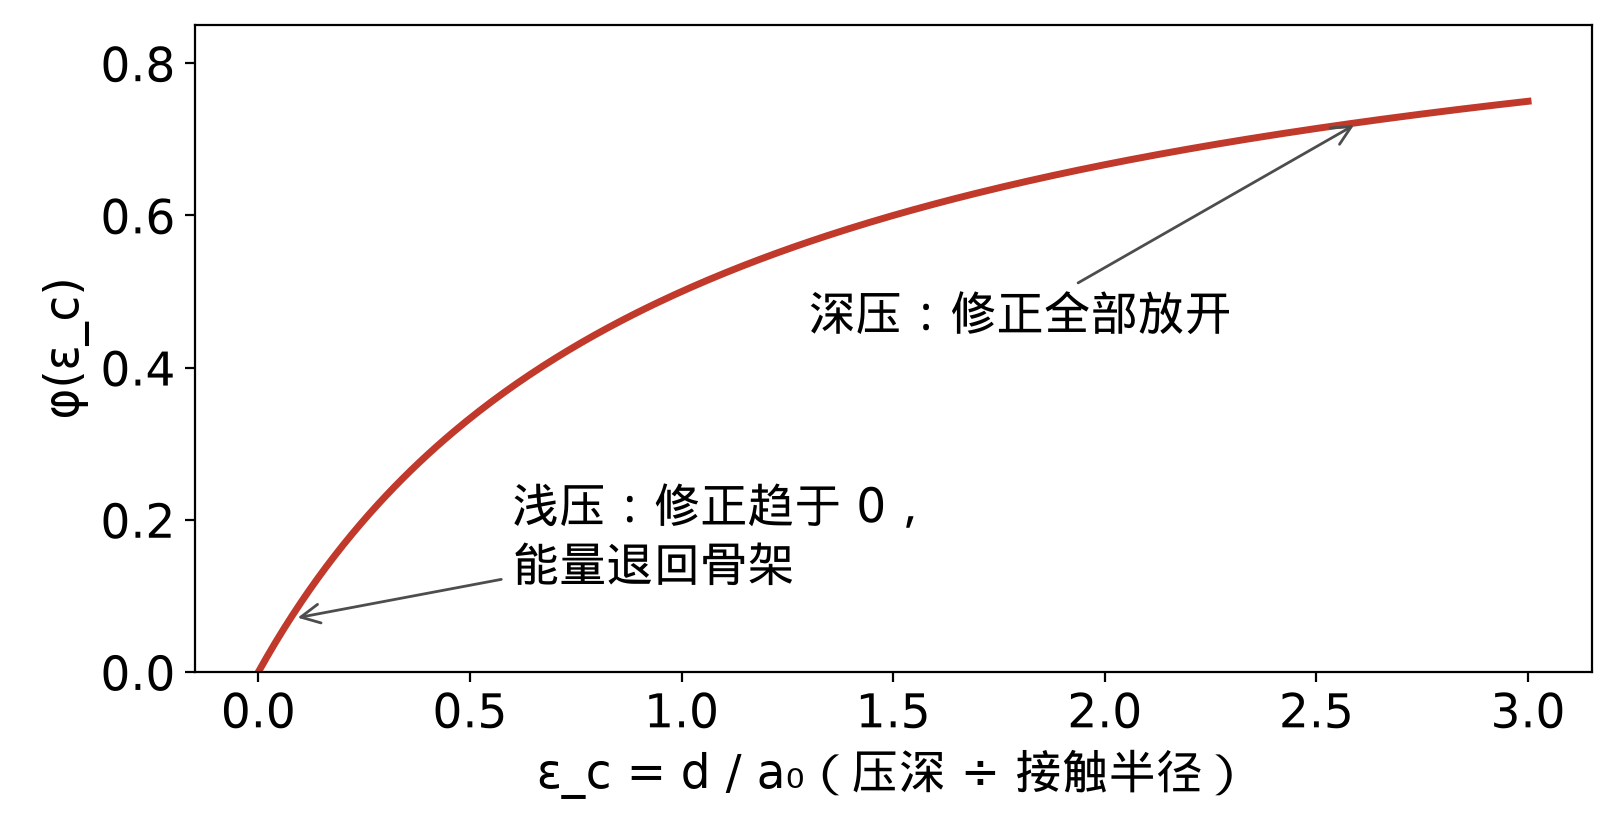
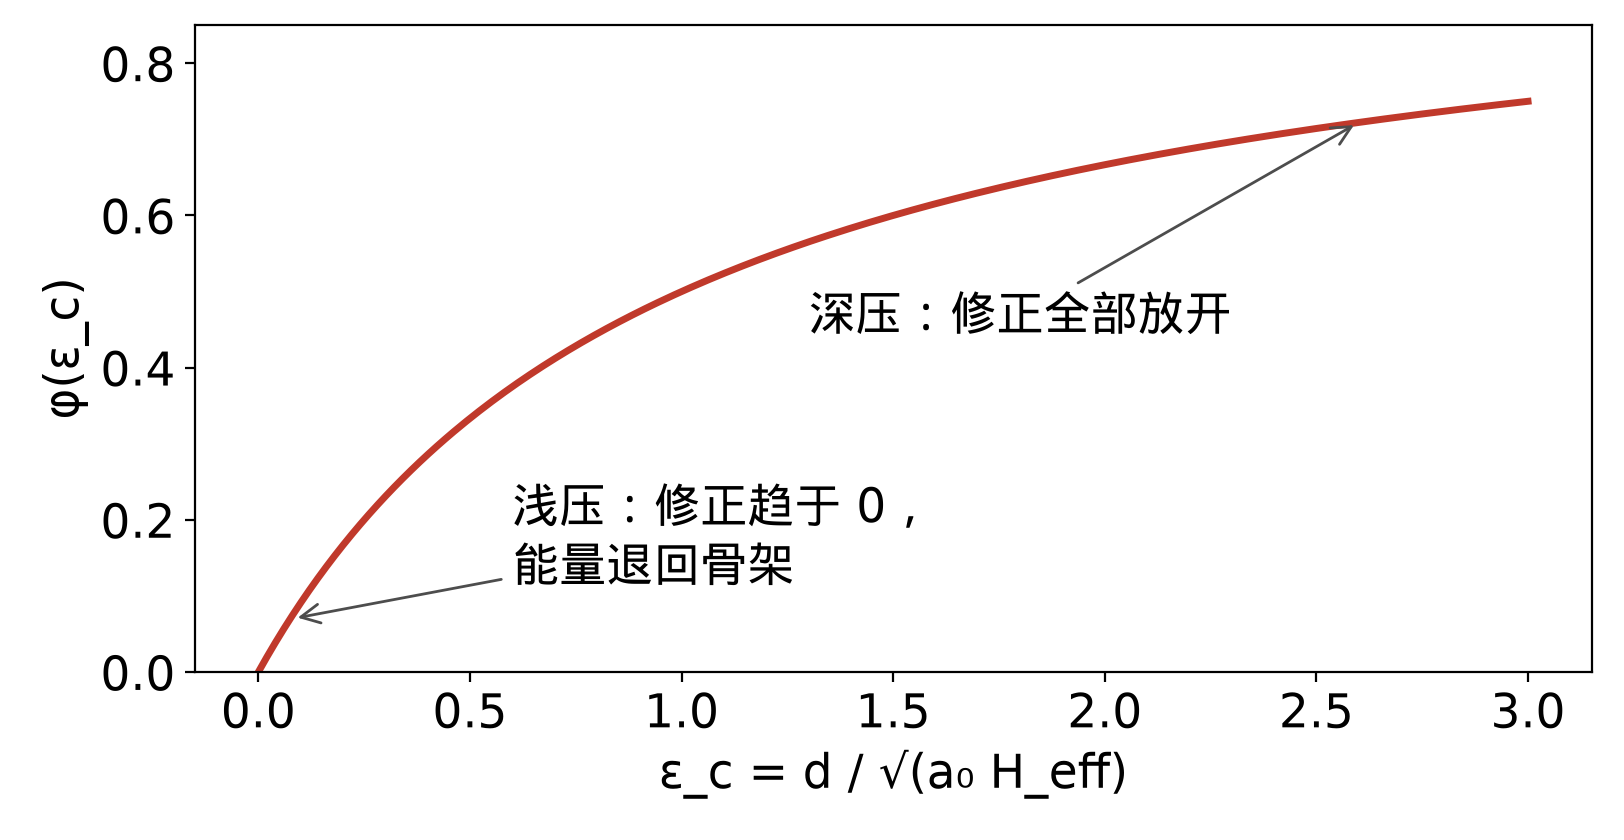
Publish week7_8 from meeting-draft 41cc2e9 (network description fix, readable dataset gallery)

Changed region(s): [[0.3387, 0.8976, 0.7697, 0.9595]]

diff --git a/week7_8.html b/week7_8.html
@@ -244,7 +244,7 @@ html.annot-on #annot-capture { display: block; }
   html.annot-fixed pre, html.annot-fixed mjx-container[display="true"] { overflow: visible; }
 }
 </style>
-<script>window.NIPC_PAGE = "b8c38d013606";</script>
+<script>window.NIPC_PAGE = "6eae0d37fffb";</script>
 <script>window.MathJax = {tex: {inlineMath: [["\\(", "\\)"]], displayMath: [["\\[", "\\]"]]}, svg: {fontCache: "global"}};</script>
 <script src="https://cdn.jsdelivr.net/npm/mathjax@3.2.2/es5/tex-svg.js" async></script>
 <a class="skip" href="#content">跳转到正文</a><div id="progress" aria-hidden="true"></div>
@@ -367,16 +367,16 @@ html.annot-on #annot-capture { display: block; }
 <p>第二类是偏大：兔压龙「龙硬 10 倍」压到 0.408 兔高时 \(S_{80}\) 是 5.56 倍，比只用第一项的 3.01 倍还大。这一格的重叠区在龙身上分成两片、两片法向夹角约 113°，兔子被两侧夹住。骨架按未变形形状算重叠，没有考虑兔子被挤向两侧，所以第一项就偏大；80 个 mode 是在单个物体上算的，在两片同时受压时给出负的柔度贡献，把能量进一步推高。</p>
 <p><strong>软硬对调：浅压时标准答案分得开，骨架方向对但幅度不足。</strong> 同样 0.126 兔高，兔压龙「龙硬 10 倍」的 GT 是「兔硬 10 倍」的 1.14 倍，骨架是 1.04 倍，只用第一项是 1.17 倍。两组泊松比对调时 GT 只差 3.5%，骨架差 1.7%，方向一致；但在 0.333 兔高 GT 是 0.97 倍、骨架是 1.01 倍，方向反了。这说明谁软谁硬的差别有一部分来自非线性，骨架（线弹性）补不全，需要第二部分的网络。</p></section>
 <section id="w3"><h2>数据集：9 对复杂网格、220 个场景</h2>
-<figure style="margin:12px 0"><img src="assets/images/dataset_gallery_9pairs.png" width="1950" height="1820" style="width:450px;max-width:100%;height:auto" alt="数据集里的 9 对复杂网格（兔、龙、鸭的不同摆放与组合），每格标出这一对的场景数和四面体数（42.5 万–69.6 万）。蓝色是上面的物体，橙色是下面的物体。" loading="lazy"><figcaption>数据集里的 9 对复杂网格（兔、龙、鸭的不同摆放与组合），每格标出这一对的场景数和四面体数（42.5 万–69.6 万）。蓝色是上面的物体，橙色是下面的物体。</figcaption></figure>
-<p><strong>每个场景是一组「两个物体的网格、材料、12 维状态」和它的标准答案。</strong> 标准答案按第 1 节的定义，用 GPU 上的 FEM+IPC 在 12 维 affine 锁下解到静止。复杂网格共 68 个场景，覆盖 9 对物体、压深 0.05–0.41 兔高、刚度比 1 和 10、泊松比 0.2–0.45 以及 Gent 材料；另有 152 个参数化场景（细长锥、斜置薄鳍等形状，压深以深压为主）补足形状覆盖。每个场景同时存下骨架 \(S_0\)、 \(S_{80}\) 和骨架在每片接触区解出的局部场（压强、重叠、法向），作为网络的输入来源。</p></section>
+<figure style="margin:12px 0"><img src="assets/images/w78_dataset_gallery.png" width="1624" height="1380" style="width:555px;max-width:100%;height:auto" alt="数据集里的 9 对复杂网格，由兔、龙、鸭三种网格按不同摆放两两组合，每个物体 42.5 万–69.6 万个四面体。蓝色是上面的物体，橙色是下面的物体。" loading="lazy"><figcaption>数据集里的 9 对复杂网格，由兔、龙、鸭三种网格按不同摆放两两组合，每个物体 42.5 万–69.6 万个四面体。蓝色是上面的物体，橙色是下面的物体。</figcaption></figure>
+<p><strong>每个场景是一组「两个物体的网格、材料、12 维状态」和它的标准答案。</strong> 标准答案按第 1 节的定义，用 GPU 上的 FEM+IPC 在 12 维 affine 锁下解到静止。复杂网格共 68 个场景，覆盖 9 对物体、多档压深、刚度比 1 和 10、泊松比 0.2–0.45 以及 Gent 材料；另有 152 个参数化场景（细长锥、斜置薄鳍等形状，压深以深压为主）补足形状覆盖。每个场景同时存下骨架 \(S_0\)、 \(S_{80}\) 和骨架在每片接触区解出的局部场（压强、重叠、法向），作为网络的输入来源。</p></section>
 <section id="w4"><h2>模型：骨架乘一个只在深压时打开的修正</h2>
 <p><strong>网络不直接输出能量，只输出对骨架的对数修正：</strong></p>
-<p>\[U_\theta=S_{80}\cdot\exp\!\big(\phi(\varepsilon_c)\,\bar g_\theta(f)\big),\qquad \phi(\varepsilon_c)=\frac{\varepsilon_c}{1+\varepsilon_c},\qquad \varepsilon_c=\frac{d}{a_0},\]</p>
-<p>其中 \(S_{80}\) 是完整骨架的能量； \(a_0=\sqrt{A_c/\pi}\) 是把接触面积 \(A_c\) 换成等面积圆的半径， \(\varepsilon_c\) 是压深与接触半径之比，衡量这次接触有多「深」； \(\phi\) 是包络； \(\bar g_\theta\) 是网络对输入特征 \(f\) 的输出。</p>
+<p>\[U_\theta=S_{80}\cdot\exp\!\big(\phi(\varepsilon_c)\,\bar g_\theta(f)\big),\qquad \phi(\varepsilon_c)=\frac{\varepsilon_c}{1+\varepsilon_c},\qquad \varepsilon_c=\frac{d}{\sqrt{a_0H_{\text{eff}}}},\]</p>
+<p>其中 \(S_{80}\) 是完整骨架的能量； \(a_0=\sqrt{A_c/\pi}\) 是把接触面积 \(A_c\) 换成等面积圆的半径； \(H_{\text{eff}}\) 是两个物体沿接触法向厚度的较小值； \(\varepsilon_c\) 是压深与接触尺度 \(\sqrt{a_0H_{\text{eff}}}\) 之比，量纲为一，衡量这次接触有多「深」（接触小、物体薄时同样的压深更深）； \(\phi\) 是包络； \(\bar g_\theta\) 是网络对输入特征 \(f\) 的输出。</p>
 <figure style="margin:12px 0"><img src="assets/images/w78_envelope.png" width="1624" height="840" style="width:555px;max-width:100%;height:auto" alt="包络 \(\phi(\varepsilon_c)=\varepsilon_c/(1+\varepsilon_c)\)：浅压时趋于 0，网络的修正被压掉，能量退回骨架；深压时趋于 1，修正全部放开。" loading="lazy"><figcaption>包络 \(\phi(\varepsilon_c)=\varepsilon_c/(1+\varepsilon_c)\)：浅压时趋于 0，网络的修正被压掉，能量退回骨架；深压时趋于 1，修正全部放开。</figcaption></figure>
 <p><strong>这样写有三个好处。</strong> 第一，浅压时 \(\phi\to0\) ， \(U_\theta\to S_{80}\) ，第 5–6 周已经验证过的浅压精度原样保留，网络不会把它弄坏。第二，乘上 \(\exp(\cdot)\) 后能量恒为正，网络学的是倍数，和第 2 节表里「骨架是 GT 的几倍」直接对应。第三，网络对两个物体对称：</p>
 <p>\[\bar g_\theta(f)=\tfrac12\big[g_\theta(f_{AB})+g_\theta(f_{BA})\big],\]</p>
-<p>\(f_{AB}\) 和 \(f_{BA}\) 是同一组特征把两个物体的位置对调后的两种排法，所以「A 压 B」和「B 压 A」给出同一个能量。网络本身是一层宽 8 的 SiLU 全连接（光滑，保证力和刚度连续）。</p>
+<p>\(f_{AB}\) 和 \(f_{BA}\) 是同一组特征把两个物体的位置对调后的两种排法，所以「A 压 B」和「B 压 A」给出同一个能量。现在用的 \(g_\theta\) 是 18 个输入的线性组合 \(g_\theta(f)=w^\top f+b\) （输入先按训练集均值、标准差归一化），5 个随机种子各训一份、输出取平均；它对状态光滑，力和刚度连续。按「从最简单的开始」，加隐藏层只在线性不够时才做。</p>
 <p><strong>输入是 18 个无量纲量，每一个都对应第 2 节里骨架跟不上的一种变化：</strong></p>
 <div class="tablewrap"><table>
 <thead>
@@ -388,7 +388,7 @@ html.annot-on #annot-capture { display: block; }
 <tbody>
 <tr>
 <td>\(\log(d/a_0)\) 、 \(\log(d/H_{\text{eff}})\)</td>
-<td>压深越大骨架越偏（第一类失效）； \(H_{\text{eff}}\) 是两个物体沿接触法向厚度的较小值</td>
+<td>压深越大骨架越偏（第一类失效）</td>
 </tr>
 <tr>
 <td>\(\log(S_{80}/S_0)\) 、 \(\operatorname{asinh}(U_{\text{mode}}/S_{80})\)</td>
@@ -515,7 +515,7 @@ html.annot-on #annot-capture { display: block; }
 </tr>
 </tbody>
 </table></div>
-<p><strong>软硬对调和小压深（鸭撞兔，同一套网络权重）：</strong> 鸭硬 10 倍撞软兔时骨架 + 网络 1.53%，只用骨架 5.72%；小压深（初速度 0.5，GT 峰值压缩 4.6% 兔高）时 2.17% 对 5.10%，hydroelastic 29.6%，说明包络确实在浅压时保住了骨架。软鸭撞硬兔是这一组里最差的：骨架 + 网络 21.6%，只用骨架 18.9%，hydroelastic 16.5%。这时鸭子较软，颈部整体弯下去，而弯曲不在 12 维 affine 能表达的范围内，骨架和网络都按「局部凹陷」去解释这部分位移，给出偏硬的力。</p>
+<p><strong>软硬对调和小压深（鸭撞兔；这一组用的是复杂网格场景加到 54 个后重训的权重，和上面两个视频不是同一份）：</strong> 鸭硬 10 倍撞软兔时骨架 + 网络 1.53%，只用骨架 5.72%；小压深（初速度 0.5，GT 峰值压缩 4.6% 兔高）时 2.17% 对 5.10%，hydroelastic 29.6%，说明包络确实在浅压时保住了骨架。软鸭撞硬兔是这一组里最差的：骨架 + 网络 21.6%，只用骨架 18.9%，hydroelastic 16.5%。这时鸭子较软，颈部整体弯下去，而弯曲不在 12 维 affine 能表达的范围内，骨架和网络都按「局部凹陷」去解释这部分位移，给出偏硬的力。</p>
 <div class="tablewrap"><table>
 <thead>
 <tr>
